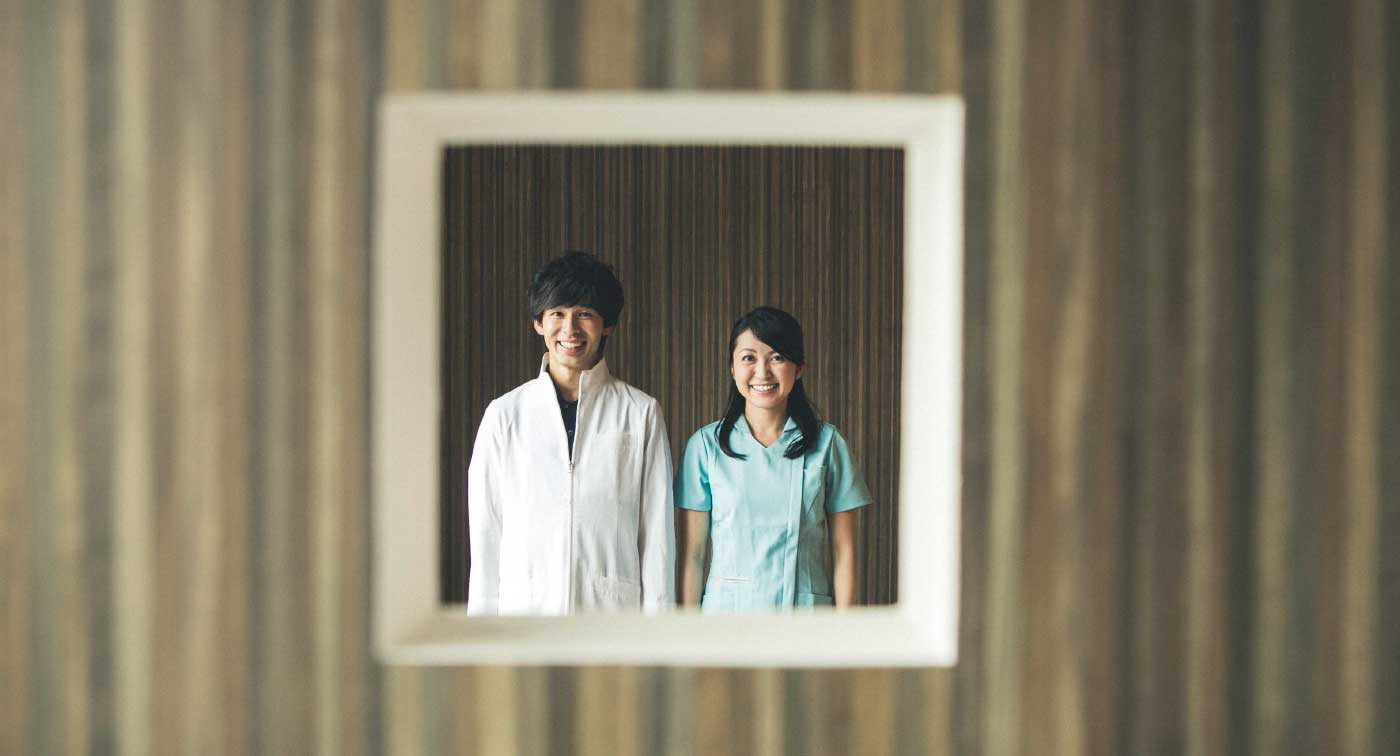
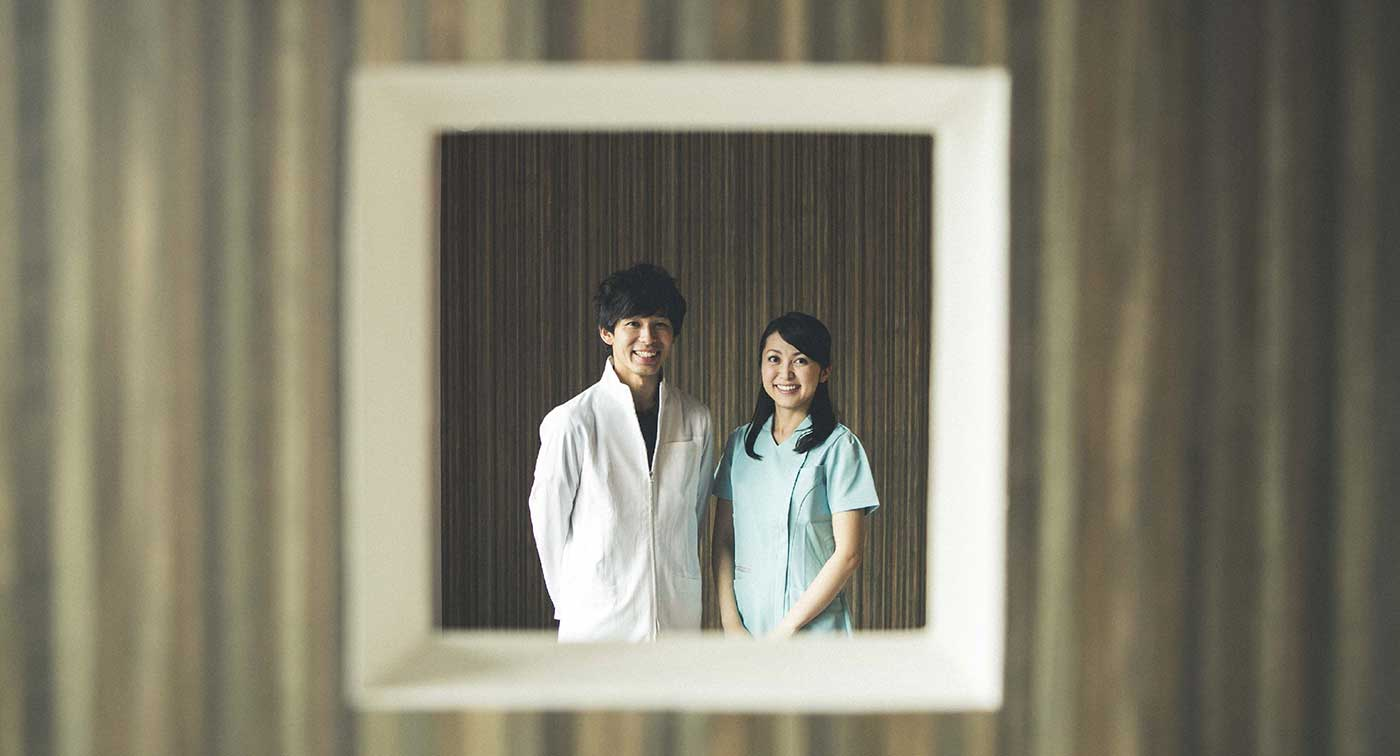
TOP画像変更

diff --git a/compass/stylesheets/styles.css b/compass/stylesheets/styles.css
@@ -9896,11 +9896,17 @@ body {
 .news-thumbnail > .image {
   display: block;
   width: 100%;
-  height: 150px;
+  height: 180px;
   background-position: center;
   background-size: cover;
 }
-/* line 13, ../sass/components/news.scss */
+@media only screen and (min-width: 768px) {
+  /* line 7, ../sass/components/news.scss */
+  .news-thumbnail > .image {
+    height: 150px;
+  }
+}
+/* line 16, ../sass/components/news.scss */
 .news-thumbnail > .image .category {
   background-color: #fff100;
   color: #231815;
@@ -9908,13 +9914,13 @@ body {
   display: inline-block;
   font-weight: bold;
 }
-/* line 22, ../sass/components/news.scss */
+/* line 25, ../sass/components/news.scss */
 .news-thumbnail h4 > a {
   color: #231815;
   font-weight: bold;
 }
 
-/* line 29, ../sass/components/news.scss */
+/* line 32, ../sass/components/news.scss */
 .btn-egao {
   border: 2px solid #231815;
   border-radius: 0;
@@ -9925,48 +9931,48 @@ body {
   padding: 13px 45px;
   letter-spacing: 0.1em;
 }
-/* line 38, ../sass/components/news.scss */
+/* line 41, ../sass/components/news.scss */
 .btn-egao > .more {
   transform: translate(0px, -2px);
   transition: transform 0.3s;
 }
-/* line 42, ../sass/components/news.scss */
+/* line 45, ../sass/components/news.scss */
 .btn-egao > .mail {
   transform: rotate(0deg);
   transition: transform 0.3s;
   transform-origin: bottom right;
 }
-/* line 47, ../sass/components/news.scss */
+/* line 50, ../sass/components/news.scss */
 .btn-egao:hover {
   background-color: #eeeeee;
 }
-/* line 49, ../sass/components/news.scss */
+/* line 52, ../sass/components/news.scss */
 .btn-egao:hover > .more {
   transform: translate(10px, -2px);
 }
-/* line 52, ../sass/components/news.scss */
+/* line 55, ../sass/components/news.scss */
 .btn-egao:hover > .mail {
   transform: rotate(20deg);
 }
 
-/* line 58, ../sass/components/news.scss */
+/* line 61, ../sass/components/news.scss */
 .sidebar-news {
   margin-bottom: 50px;
 }
-/* line 60, ../sass/components/news.scss */
+/* line 63, ../sass/components/news.scss */
 .sidebar-news ul {
   padding-left: 0;
   list-style: none;
   margin-top: 15px;
   line-height: 2;
 }
-/* line 65, ../sass/components/news.scss */
+/* line 68, ../sass/components/news.scss */
 .sidebar-news ul a {
   color: #231815;
   letter-spacing: 0.1em;
 }
 
-/* line 71, ../sass/components/news.scss */
+/* line 74, ../sass/components/news.scss */
 .sidebar-line {
   fill: none;
   stroke: #231815;
@@ -9975,19 +9981,19 @@ body {
   stroke-miterlimit: 10;
 }
 
-/* line 78, ../sass/components/news.scss */
+/* line 81, ../sass/components/news.scss */
 .sidebar-news-title {
   font-weight: bold;
   text-align: center;
 }
 
-/* line 83, ../sass/components/news.scss */
+/* line 86, ../sass/components/news.scss */
 .nav-paging a {
   color: #231815;
   font-weight: bold;
 }
 
-/* line 89, ../sass/components/news.scss */
+/* line 92, ../sass/components/news.scss */
 .news-category-tab {
   position: absolute;
   top: 0;

diff --git a/compass/sass/components/news.scss b/compass/sass/components/news.scss
@@ -7,7 +7,10 @@
     >.image {
         display: block;
         width: 100%;
-        height: 150px;
+        height: 180px;
+        @media only screen and (min-width: $screen-sm) {
+            height: 150px;            
+        }
         background-position: center;
         background-size: cover;
         .category {

diff --git a/compass/svg/top.php b/compass/svg/top.php
@@ -5,8 +5,11 @@
 	<clipPath id="TOP_SVGID_2">
 		<use xlink:href="#TOP_SVGID_1"  style="overflow:visible;"/>
 	</clipPath>
-	<image style="overflow:visible;clip-path:url(#TOP_SVGID_2);" width="1400" height="756" xlink:href="<? bloginfo('template_directory') ?>/compass/images/top-bg.jpg" >
+	<image style="overflow:visible;clip-path:url(#TOP_SVGID_2);" class="hidden-xs" width="1400" height="756" xlink:href="<? bloginfo('template_directory') ?>/compass/images/[email redacted]" >
 	</image>
+	<image style="overflow:visible;clip-path:url(#TOP_SVGID_2);" class="visible-xs" width="1400" height="756" xlink:href="<? bloginfo('template_directory') ?>/compass/images/top-bg.jpg" >
+	</image>
+
 </svg>
 
 <script>

diff --git a/index.php b/index.php
@@ -388,7 +388,7 @@ while ( have_posts() ) : the_post();
         <h3 class="text-center">Tel 011-616-1919</h3>
         <br>
         <h4 class="text-center">
-            <a class="btn btn-egao">メールを送る&emsp;<img class="mail" src="<? bloginfo('template_directory') ?>/compass/images/envelope.png" srcset="<? bloginfo('template_directory') ?>/compass/images/[email redacted] 2x"></a>
+            <a class="btn btn-egao" href="mailto:[email redacted]">メールを送る&emsp;<img class="mail" src="<? bloginfo('template_directory') ?>/compass/images/envelope.png" srcset="<? bloginfo('template_directory') ?>/compass/images/[email redacted] 2x"></a>
         </h4>
 
     </div><!-- /.container -->